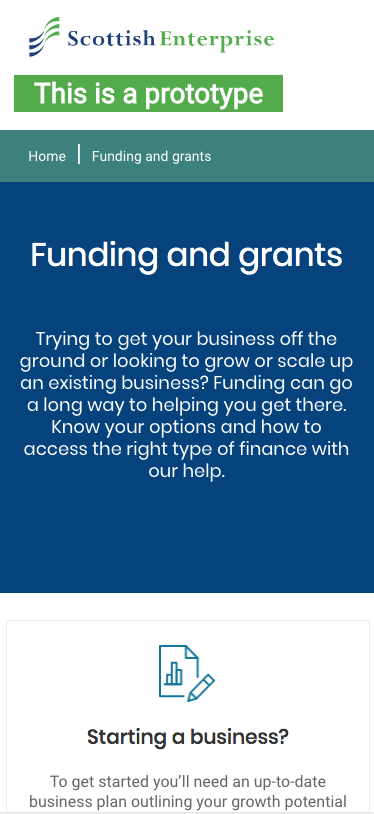
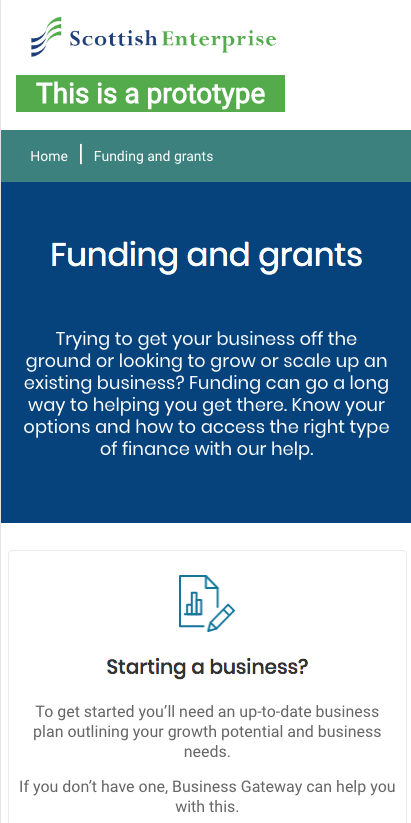
improve padding in hero when there is extra paragraphe

diff --git a/app/assets/sass/se.scss b/app/assets/sass/se.scss
@@ -188,7 +188,7 @@ $se-heading-darker-grey: #333;
         color: white;
         font-family: "Poppins", Arial, Helvetica, sans-serif;
         font-size: 18px;
-        padding: 48px 20px ;
+        padding: 48px 20px 0 20px;
         @include mq ($from: tablet) {
             padding-left: 100px;
             padding-right: 100px;
